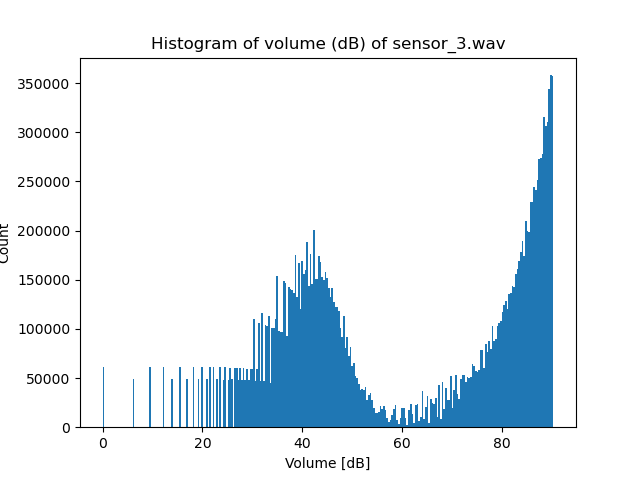
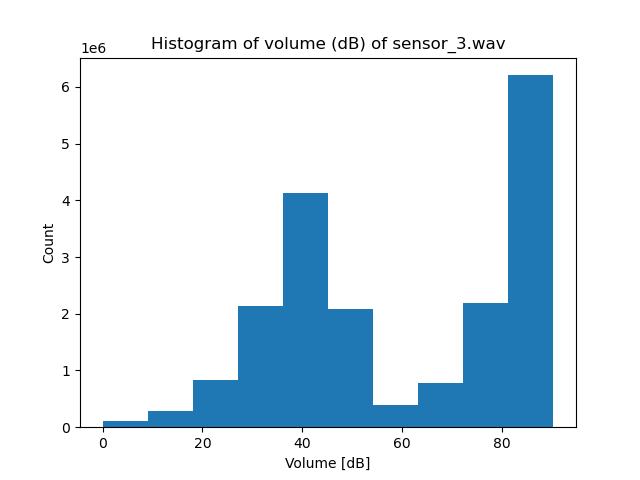
added manahattan distance calc to compare wav files

diff --git a/histograms.py b/histograms.py
@@ -139,7 +139,7 @@ def histogram_of_volume_db(filename):
     # Create a new figure
     plt.figure()
     # Plot the histogram of the volume in dB
-    plt.hist(volume_db, bins='auto')
+    plt.hist(volume_db, bins=10)
     # Label the axes
     plt.xlabel('Volume [dB]')
     plt.ylabel('Count')
@@ -156,9 +156,91 @@ def generate_histograms(filename):
     histogram_of_volume_db(filename)
     return
 
-generate_histograms('test_rec.wav') # test set from pixel
-generate_histograms('processed2.wav') # simple addition fusion
-generate_histograms('sensor_1.wav') # raw and normalized
-generate_histograms('sensor_2.wav') # raw and normalized
-generate_histograms('sensor_3.wav') # raw and normalized
-generate_histograms('uni_mix_reduced_output.wav') # 
+def number_of_samples(filename):
+    wav_file = wave.open(filename, 'r')
+    framerate = wav_file.getframerate()
+    num_frames = wav_file.getnframes()
+    wav_file.close()
+    return num_frames
+
+def count_samples():
+    for file in ['test_rec.wav', 'processed2.wav', 'sensor_1.wav', 'sensor_2.wav', 'sensor_3.wav', 'uni_mix_reduced_output.wav']:
+        print(f'Number of samples in {file}: {number_of_samples(file)}')
+        # all samples have 9595771 frames
+    return
+
+def manhattan_distance_of_volume(file_one, file_two):
+    wav_file_one = wave.open(file_one, 'r')
+    wav_file_two = wave.open(file_two, 'r')
+    signal_one = wav_file_one.readframes(-1)
+    signal_two = wav_file_two.readframes(-1)
+    signal_one = np.frombuffer(signal_one, dtype='int16')
+    signal_two = np.frombuffer(signal_two, dtype='int16')
+    wav_file_one.close()
+    wav_file_two.close()
+    if len(signal_two) > len(signal_one):
+        signal_two = signal_two[::2]
+    elif len(signal_one) > len(signal_two):
+        signal_one = signal_one[::2]
+
+    volume_db_one = 20 * np.log10(np.abs(signal_one)+1) # warning when log 0
+    volume_db_two = 20 * np.log10(np.abs(signal_two)+1)
+    #volume_db_one = volume_db_one[volume_db_one != -np.inf]
+    #volume_db_two = volume_db_two[volume_db_two != -np.inf]
+    manhattan_distance = np.sum(np.abs(volume_db_one - volume_db_two))
+    print(f'Manhattan distance of volume between {file_one} and {file_two}: {manhattan_distance}')
+    return manhattan_distance
+
+def manhattan_distance_amplitude(file_one, file_two):
+    wav_file_one = wave.open(file_one, 'r')
+    wav_file_two = wave.open(file_two, 'r')
+    signal_one = wav_file_one.readframes(-1)
+    signal_two = wav_file_two.readframes(-1)
+    signal_one = np.frombuffer(signal_one, dtype='int16')
+    signal_two = np.frombuffer(signal_two, dtype='int16')
+
+    # remove every second value from signal_two if its longer than signal_one
+    if len(signal_one) > len(signal_two):
+        signal_one = signal_one[::2]
+
+    wav_file_one.close()
+    wav_file_two.close()
+    manhattan_distance = np.sum(np.abs(signal_one - signal_two))
+    manhattan_distance = "{:.3e}".format(manhattan_distance)
+    print(f'Manhattan distance of amplitude between {file_one} and {file_two}: {manhattan_distance}')
+    return manhattan_distance
+
+def manhattan_distance_frequence(file_one, file_two):
+    wav_file_one = wave.open(file_one, 'r')
+    wav_file_two = wave.open(file_two, 'r')
+    signal_one = wav_file_one.readframes(-1)
+    signal_two = wav_file_two.readframes(-1)
+    signal_one = np.frombuffer(signal_one, dtype='int16')
+    signal_two = np.frombuffer(signal_two, dtype='int16')
+
+    # remove every second value from signal_two if its longer than signal_one
+    if len(signal_one) > len(signal_two):
+        signal_one = signal_one[::2]
+
+    wav_file_one.close()
+    wav_file_two.close()
+    spectrum_one = np.abs(fft(signal_one))
+    spectrum_two = np.abs(fft(signal_two))
+    manhattan_distance = np.sum(np.abs(spectrum_one - spectrum_two))
+    # format manhattan_distance as scientific notation, with 3 decimal places
+    manhattan_distance = "{:.3e}".format(manhattan_distance)
+    print(f'Manhattan distance of {manhattan_distance} between frequencies of {file_one} and {file_two}: ')
+    return manhattan_distance
+
+if False:
+    generate_histograms('test_rec.wav') # test set from pixel
+    generate_histograms('processed2.wav') # simple addition fusion
+    generate_histograms('sensor_1.wav') # raw and normalized
+    generate_histograms('sensor_2.wav') # raw and normalized
+    generate_histograms('sensor_3.wav') # raw and normalized
+    generate_histograms('uni_mix_reduced_output.wav') # 
+
+if True:
+    for file in ['test_rec.wav', 'sensor_1.wav', 'sensor_2.wav', 'sensor_3.wav', 'processed2.wav', 'uni_mix_reduced_output.wav']:
+        #manhattan_distance_frequence('test_rec.wav', file)
+        manhattan_distance_amplitude('test_rec.wav', file)

diff --git a/pesq_score.py b/pesq_score.py
@@ -71,7 +71,7 @@ def pesq_of_two_raw(file_one, file_two):
 
     return get_pesq_score(trim_one, trim_two)
 
-pesq_of_two_raw('test_rec.wav', 'uni_mix_reduced_output.wav')
+pesq_of_two_raw('sensor_1.wav', 'sensor_2.wav')
 # 1.26, 1.13, 1.22 for sensor 1, 2, 3 compared to test_rec
 # unix mixed wave was 1.03
 # proccessed2 was 1.04
